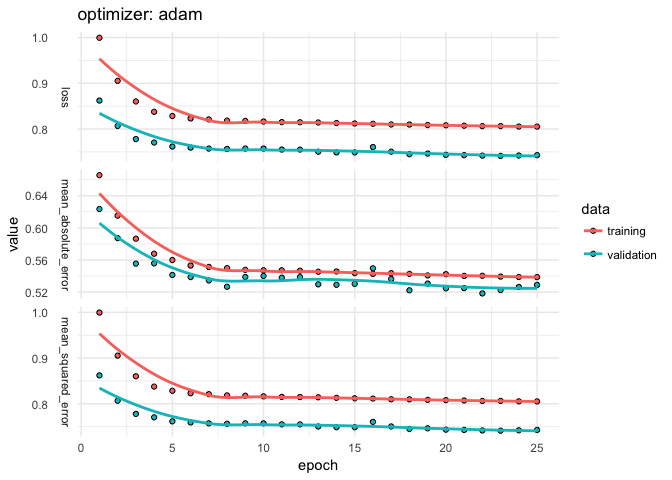
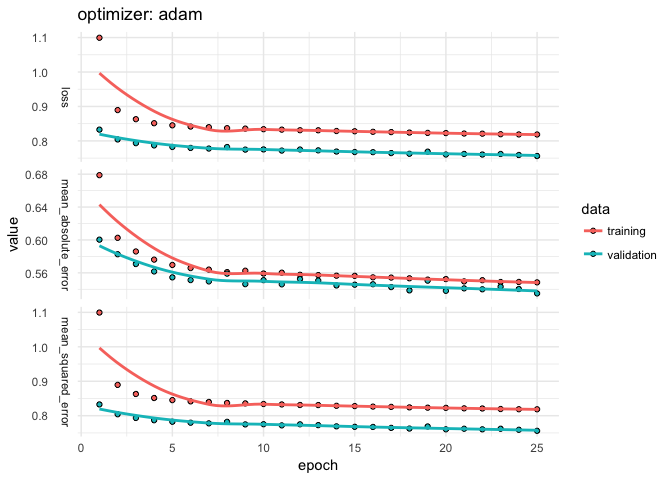
added ex. three dense layers (50% dropout)

diff --git a/examples/prelim_tests.md b/examples/prelim_tests.md
@@ -247,21 +247,50 @@ colnames(loss)[7] <- "keras_sgd_abs_loss"
 
 
 
+keras_model_seq <- keras_model_sequential()
+keras_model_seq %>% layer_dense(units = c(P), input_shape = c(P)) %>% layer_dropout(P/2) %>%
+  layer_dense(units = c(P)) %>% layer_dropout(P/2) %>%
+  layer_dense(units = c(P)) %>% 
+  layer_activation("linear") %>% layer_dense(1)
 
+keras_model_seq %>% compile(
+  loss = loss_mean_squared_error,
+  optimizer = optimizer_sgd(),
+  metrics = c("mean_absolute_error", "mean_squared_error")
+)
 
+history_three_layer <- keras_model_seq %>% fit(x_train, z_train,
+                                   epochs = 25,
+                                   batch_size = 32,
+                                   validation_split = 0.2)
 
-
-round(loss, 0)
+plot(history_three_layer) + theme_minimal() + ggtitle("optimizer: stochastic gradient descent (three dense layers)")
 ```
 
-                             nnet         lm       plm2        pl3 keras_adam
-    Mean Abs Error          24787      25786      25239      24882      26276
-    Mean Squared Error 1787254456 1852735427 1802438648 1788490321 1883809432
-                        keras_sgd keras_sgd_abs_loss
-    Mean Abs Error          25886              25397
-    Mean Squared Error 1857275265         1883960800
+![](prelim_tests_files/figure-markdown_github-ascii_identifiers/unnamed-chunk-3-3.png)
 
 ``` r
+score <- evaluate(keras_model_seq, x_test, z_test)
+
+loss <- cbind(loss, c(score$mean_absolute_error*sd(pe$wageinc[trnidxs]), score$mean_squared_error*var(pe$wageinc[trnidxs])))
+colnames(loss)[8] <- "keras_sgd_mse_three_layers"
+
+
+round(t(loss), 0)
+```
+
+                               Mean Abs Error Mean Squared Error
+    nnet                                24787         1787254456
+    lm                                  25786         1852735427
+    plm2                                25239         1802438648
+    pl3                                 24882         1788490321
+    keras_adam                          26557         1914270085
+    keras_sgd                           26890         1878916777
+    keras_sgd_abs_loss                  25820         1970388585
+    keras_sgd_mse_three_layers          26642         1871465071
+
+``` r
+# how do the predictions rank by the two evals?
 # MSE and mean absolute error the same in same order?
 cor(loss[1,], loss[2,], method = "spearman")
 ```
